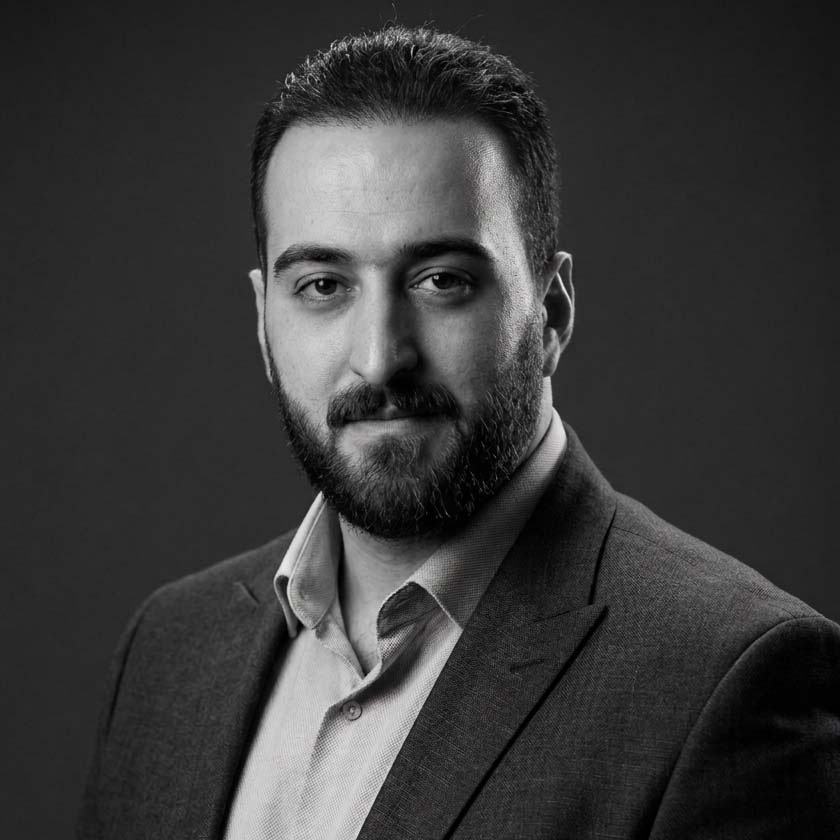
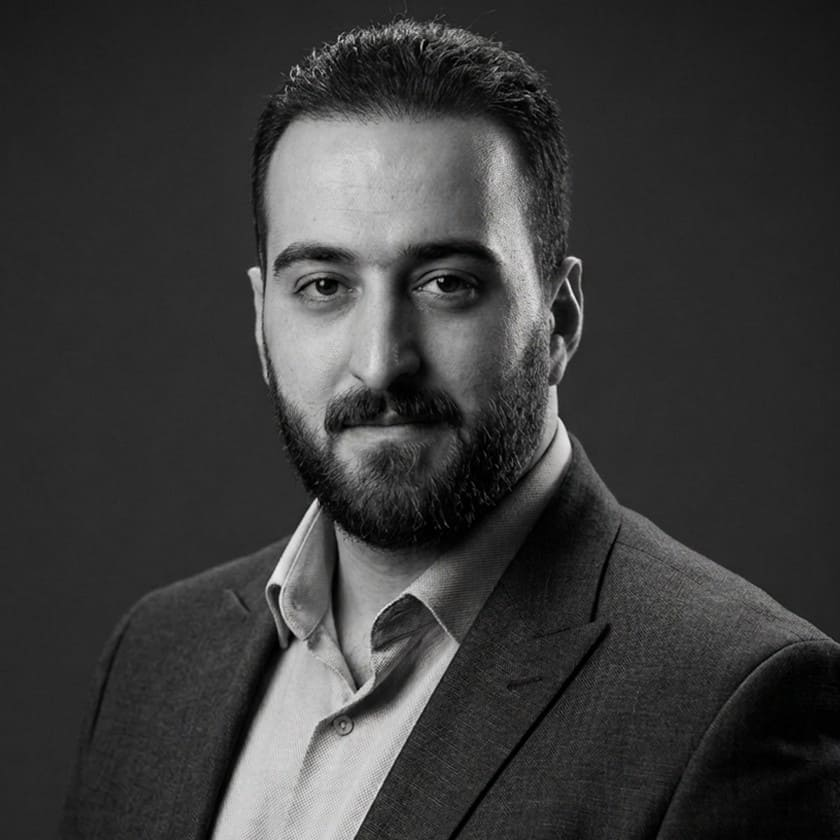
Add files via upload

diff --git a/index.html b/index.html
@@ -1,4 +1,4 @@
-<!DOCTYPE html>
+<!DOCTYPE html>
 <html lang="fa" dir="rtl">
 <head>
     <meta charset="UTF-8">
@@ -6,7 +6,7 @@
     <title>مهدی صیاد | Mehdi Sayyad</title>
     <link rel="icon" type="image/png" href="assets/images/favicon.png">
     
-    <meta name="description" content="مهدی صیاد: مشاوره و اجرای رشد دیجیتال کسبوکارها، اتوماسیون، تبلیغات آنلاین و بهبود سئو با بیش از ۷ سال تجربه فعالیت.">
+    <meta name="description" content="مهدی صیاد: مشاوره و مهندسی رشد دیجیتال کسبوکارها، اتوماسیون، تبلیغات آنلاین و بهبود سئو با بیش از ۷ سال تجربه فعالیت.">
 	<meta name="keywords" content="Mehdi SayyadNahed, Mehdi Sayyad, مهدی صیاد ,مهدی صیاد ناهد ,مهدی صیادناهد">
 
     <link rel="stylesheet" href="assets/css/vazirmatn.css">
@@ -175,19 +175,20 @@
                 </div>
 
                 <div class="bento-box bento-small reveal stat-box">
-                    <h2 class="stat-number en-text">
+                    <h2 class="stat-number">
                         <span class="lang-fa">۲۴+</span>
-                        <span class="lang-en">+24</span>
+                        <span class="lang-en en-text">+24</span>
                     </h2>
                     <p>
                         <span class="lang-fa">پروژه موفق</span>
                         <span class="lang-en">Successful Projects</span>
                     </p>
                 </div>
+                
                 <div class="bento-box bento-small reveal stat-box">
-                    <h2 class="stat-number en-text">
+                    <h2 class="stat-number">
                         <span class="lang-fa">۷+</span>
-                        <span class="lang-en">+7</span>
+                        <span class="lang-en en-text">+7</span>
                     </h2>
                     <p>
                         <span class="lang-fa">سال تجربه</span>
@@ -314,6 +315,35 @@
             </p>
 
             <div class="timeline">
+
+                <!-- Item 1: Roshdpishe -->
+                <div class="timeline-item reveal">
+                    <div class="timeline-dot"></div>
+                    <div class="timeline-content glass-card">
+                        <div class="pub-meta">
+                            <span><i class="far fa-calendar-alt"></i> 
+                                <span class="lang-fa">۱۴۰۵ - تاکنون</span>
+                                <span class="lang-en">2026 - Present</span>
+                            </span>
+                        </div>
+                        <h3 class="timeline-title">
+                            <span class="lang-fa">مهندسی رشد دیجیتال کسب و کار</span>
+                            <span class="lang-en">Digital Business Growth Engineering</span>
+                        </h3>
+                        <h4 class="timeline-company" style="color: var(--accent-1); margin-bottom: 10px;">
+                            <span class="lang-fa">رشدپیشه</span>
+                            <span class="lang-en">RoshdPishe</span>
+                        </h4>
+                        <p>
+                            <span class="lang-fa">پس از سالها تجربه در دنیای کامپیوتر، اینترنت و تجارت، در این صدد بر آمدم که به کسب و کارهای دیگر کمک کنم تا بتوانند افقهای فعالیت خود را گسترش داده و با ورود به دنیای تجارت آنلاین، علاوه بر افزایش فروش و کسب سود بیشتر، افراد بیشتری را از محصولات و خدمات خود بهرهمند کنند.</span>
+                            <span class="lang-en">Leveraging years of experience in computer systems, the internet, and commerce, I set out to help other businesses expand their horizons. By guiding them into the world of online commerce, my goal is to optimize sales, maximize profits, and enable a larger audience to benefit from their quality products and services.</span>
+                        </p>
+                        <a href="#roshdpishe" class="btn btn-glow mt-4">
+                            <span class="lang-fa"><i class="fas fa-image"></i> پیوست</span>
+                            <span class="lang-en"><i class="fas fa-image"></i> Attachment</span>
+                        </a>
+                    </div>
+                </div>
 
                 <!-- Item 2: R&D -->
                 <div class="timeline-item reveal reveal-delay-1">
@@ -882,29 +912,8 @@
                 <span class="lang-en">Feedback on the experience of working with me</span>
             </p>
             <div class="testimonials-grid">
-                
-                <!-- <div class="testimonial-card glass-card reveal">
-                    <i class="fas fa-quote-left quote-icon"></i>
-                    <p class="testimonial-text">
-                        <span class="lang-fa">"مهدی با راهاندازی پلتفرم آنلاین و پیادهسازی دقیق استراتژیهای بازاریابی دیجیتال برای ما, توانست بستر مناسبی برای معرفی و فروش محصولات خاص ما به مخاطبان هدف ایجاد کند."</span>
-                        <span class="lang-en">"By launching our online platform and implementing precise digital marketing strategies, Mehdi successfully created a suitable environment to introduce and sell our niche products to the target audience."</span>
-                    </p>
-                    <div class="client-info">
-                        <img src="assets/images/moradian.jpg" alt="moradian">
-                        <div>
-                            <h4>
-                                <span class="lang-fa">مرادیان</span>
-                                <span class="lang-en">Moradian</span>
-                            </h4>
-                            <span class="text-muted">
-                                <span class="lang-fa">رزرایان</span>
-                                <span class="lang-en">RozRayan</span>
-                            </span>
-                        </div>
-                    </div>
-                </div> -->
 
-                <div class="testimonial-card glass-card reveal reveal-delay-1">
+                <div class="testimonial-card glass-card reveal">
                     <i class="fas fa-quote-left quote-icon"></i>
                     <p class="testimonial-text">
                         <span class="lang-fa">"تسلط مهدی بر طراحی ساختارهای یکپارچه فروشگاهی، به ما کمک کرد تا فرآیند ارائه همزمان تجهیزات تخصصی و خدمات مهندسی مربوط به آنها را به شکلی ساده و کارآمد پیادهسازی کنیم."</span>
@@ -925,7 +934,7 @@
                     </div>
                 </div>
 
-                <div class="testimonial-card glass-card reveal reveal-delay-2">
+                <div class="testimonial-card glass-card reveal reveal-delay-1">
                     <i class="fas fa-quote-left quote-icon"></i>
                     <p class="testimonial-text">
                         <span class="lang-fa">"خلاقیت مهدی در طراحی گیمیفیکیشن، تعامل و ماندگاری مشتریان ما را به شکل مؤثری بهبود بخشید. او توانست مفاهیم روانشناختی جذب مخاطب را به راهکارهای فنی  و جذاب تبدیل کند."</span>
@@ -941,6 +950,27 @@
                             <span class="text-muted">
                                 <span class="lang-fa">کافهشن</span>
                                 <span class="lang-en">CafeShen</span>
+                            </span>
+                        </div>
+                    </div>
+                </div>
+
+                <div class="testimonial-card glass-card reveal reveal-delay-2">
+                    <i class="fas fa-quote-left quote-icon"></i>
+                    <p class="testimonial-text">
+                        <span class="lang-fa">"تجربهی مهدی در چگونگی ارائهی سوابق شغلی و پژوهشی و توسعهی برند شخصی در دنیای دیجیتال، به من کمک کرد تا هویت تخصصی خود را به تصویری شفاف و اعتمادساز تبدیل کنم."</span>
+                        <span class="lang-en">"Mehdi’s experience in presenting professional and research backgrounds and developing personal brands in the digital world helped me turn my professional identity into a clear, trustworthy image."</span>
+                    </p>
+                    <div class="client-info">
+                        <img src="assets/images/hasaninezhad.jpg" alt="hasaninezhad">
+                        <div>
+                            <h4>
+                                <span class="lang-fa">حسنینژاد</span>
+                                <span class="lang-en">HasaniNezhad</span>
+                            </h4>
+                            <span class="text-muted">
+                                <span class="lang-fa">مهندس معمار</span>
+                                <span class="lang-en">Architect Engineer</span>
                             </span>
                         </div>
                     </div>
@@ -999,6 +1029,27 @@
     </section>
 
     <script src="assets/js/main.js"></script>
+
+    <!-- Experience Modals -->
+    <div class="custom-modal-overlay" id="roshdpishe">
+        <div class="custom-modal-container glass-card">
+            <a href="#experience" class="custom-modal-close lang-fa">
+                <i class="fas fa-times"></i>
+            </a>
+            <a href="#experience" class="custom-modal-close lang-en" style="left: auto; right: 20px;">
+                <i class="fas fa-times"></i>
+            </a>
+            <div class="custom-modal-body">
+                <h3 class="timeline-title mt-4">
+                    <span class="lang-fa">مهندسی رشد دیجیتال کسب و کار</span>
+                    <span class="lang-en">Digital Business Growth Engineering</span>
+                </h3>
+                <div class="modal-image-wrapper">
+                    <img src="assets/images/roshdpishe.jpg" alt="Roshdpishe">
+                </div>
+            </div>
+        </div>
+    </div>
 
     <div class="custom-modal-overlay" id="r_and_d">
         <div class="custom-modal-container glass-card">

diff --git a/assets/js/main.js b/assets/js/main.js
@@ -5,9 +5,9 @@
     document.documentElement.setAttribute('lang', savedLang);
     document.documentElement.setAttribute('dir', savedLang === 'fa' ? 'rtl' : 'ltr');
     if (savedLang === 'fa') {
-        document.title = "مهدی صیاد | رشد دیجیتال کسب و کار";
+        document.title = "مهدی صیاد | مهندس رشد دیجیتال کسب و کار";
     } else {
-        document.title = "Mehdi Sayyad | Digital Business Growth";
+        document.title = "Mehdi Sayyad | Digital Business Growth Engineer";
     }
 
     // ۲. هماهنگسازی آنی تم سیستمی یا ذخیرهشده (قبل از رندر نهایی بدنه)
@@ -37,9 +37,9 @@ document.addEventListener('DOMContentLoaded', () => {
 
         // بروزرسانی عنوان پنجره مرورگر
         if (lang === 'fa') {
-            document.title = "مهدی صیاد | رشد دیجیتال کسب و کار";
+            document.title = "مهدی صیاد | مهندس رشد دیجیتال کسب و کار";
         } else {
-            document.title = "Mehdi Sayyad | Digital Business Growth";
+            document.title = "Mehdi Sayyad | Digital Business Growth Engineer";
         }
 
         // مدیریت چرخش آیکون تغییر زبان به شکل داینامیک بدون تداخل کلاسها

diff --git a/assets/css/style.css b/assets/css/style.css
@@ -1295,7 +1295,6 @@ ul {
         display: none;
     }
     .mobile-menu-btn {
-        margin-top: 7px;
         display: block;
     }
 
